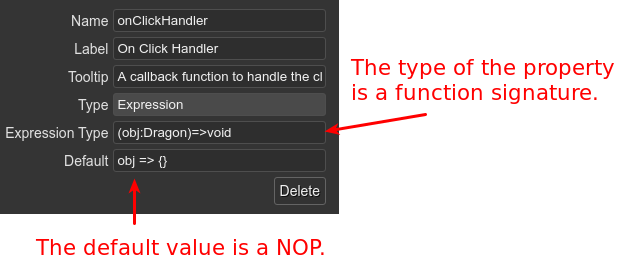
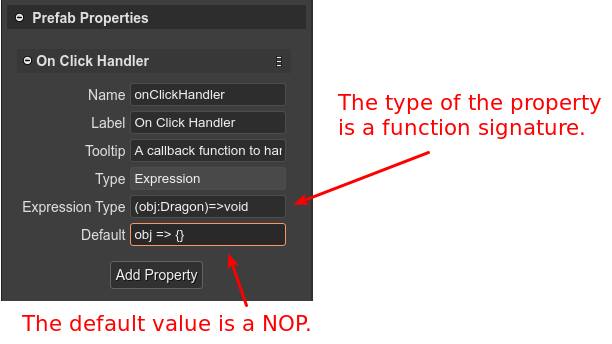
Update images of prefab user properties.

diff --git a/scene-editor/prefab-user-properties.rst b/scene-editor/prefab-user-properties.rst
@@ -25,10 +25,13 @@ All type of properties requires some common parameters that you should provide:
 * The **Tooltip**. Used in the UI as documentation of the property.
 * The **Default** value. 
 
-Below the parameters of the property, it shows a **Delete** button, to remove the property. All changes in user properties can be undoable.
-
 .. image:: ../images/prefab-user-props-common-params-06062020.webp
     :alt: Common parameters of a property.
+
+In the title bar of the property, there is a menu with commands to delete the property or move it up/down. You can undo/redo all changes in the properties.
+
+.. image:: ../images/prefab-user-props-menu-06112020.webp
+    :alt: Property menu.
 
 .. topic:: Simple property type
 
